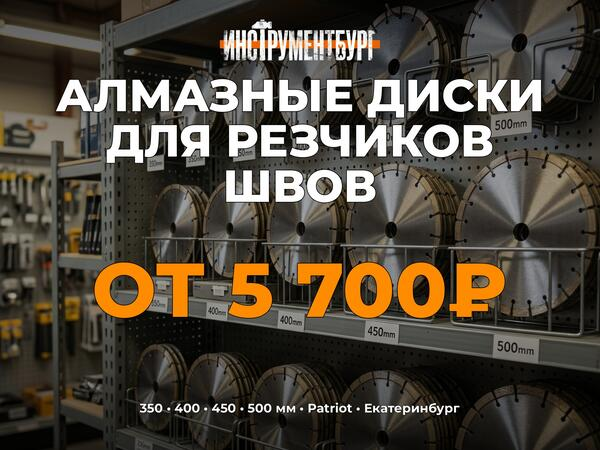
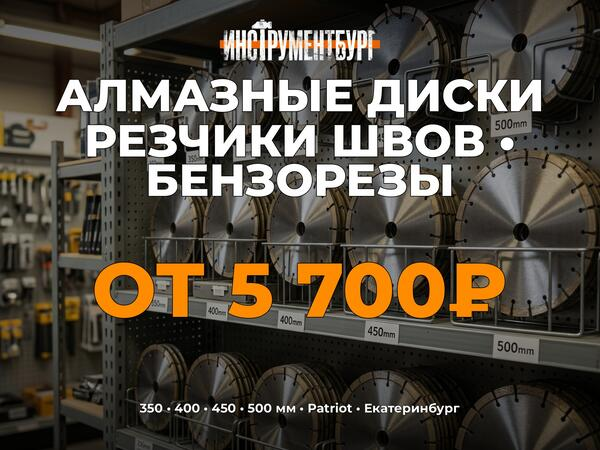
fix: add бензорезы to diamond discs slide 1

Changed region(s): [[0.12, 0.2489, 0.87, 0.4667]]

diff --git a/index.html b/index.html
@@ -62,7 +62,7 @@ body { font-family: -apple-system, BlinkMacSystemFont, 'Segoe UI', Roboto, sans-
 <body>
 <div class="header">
   <h1>Превью Авито — 26 объявлений</h1>
-  <p>Проверь текст и фото перед деплоем &middot; 08.04.2026 18:34</p>
+  <p>Проверь текст и фото перед деплоем &middot; 08.04.2026 18:40</p>
 </div>
 <div class="toc">
   <h3>Навигация</h3>
